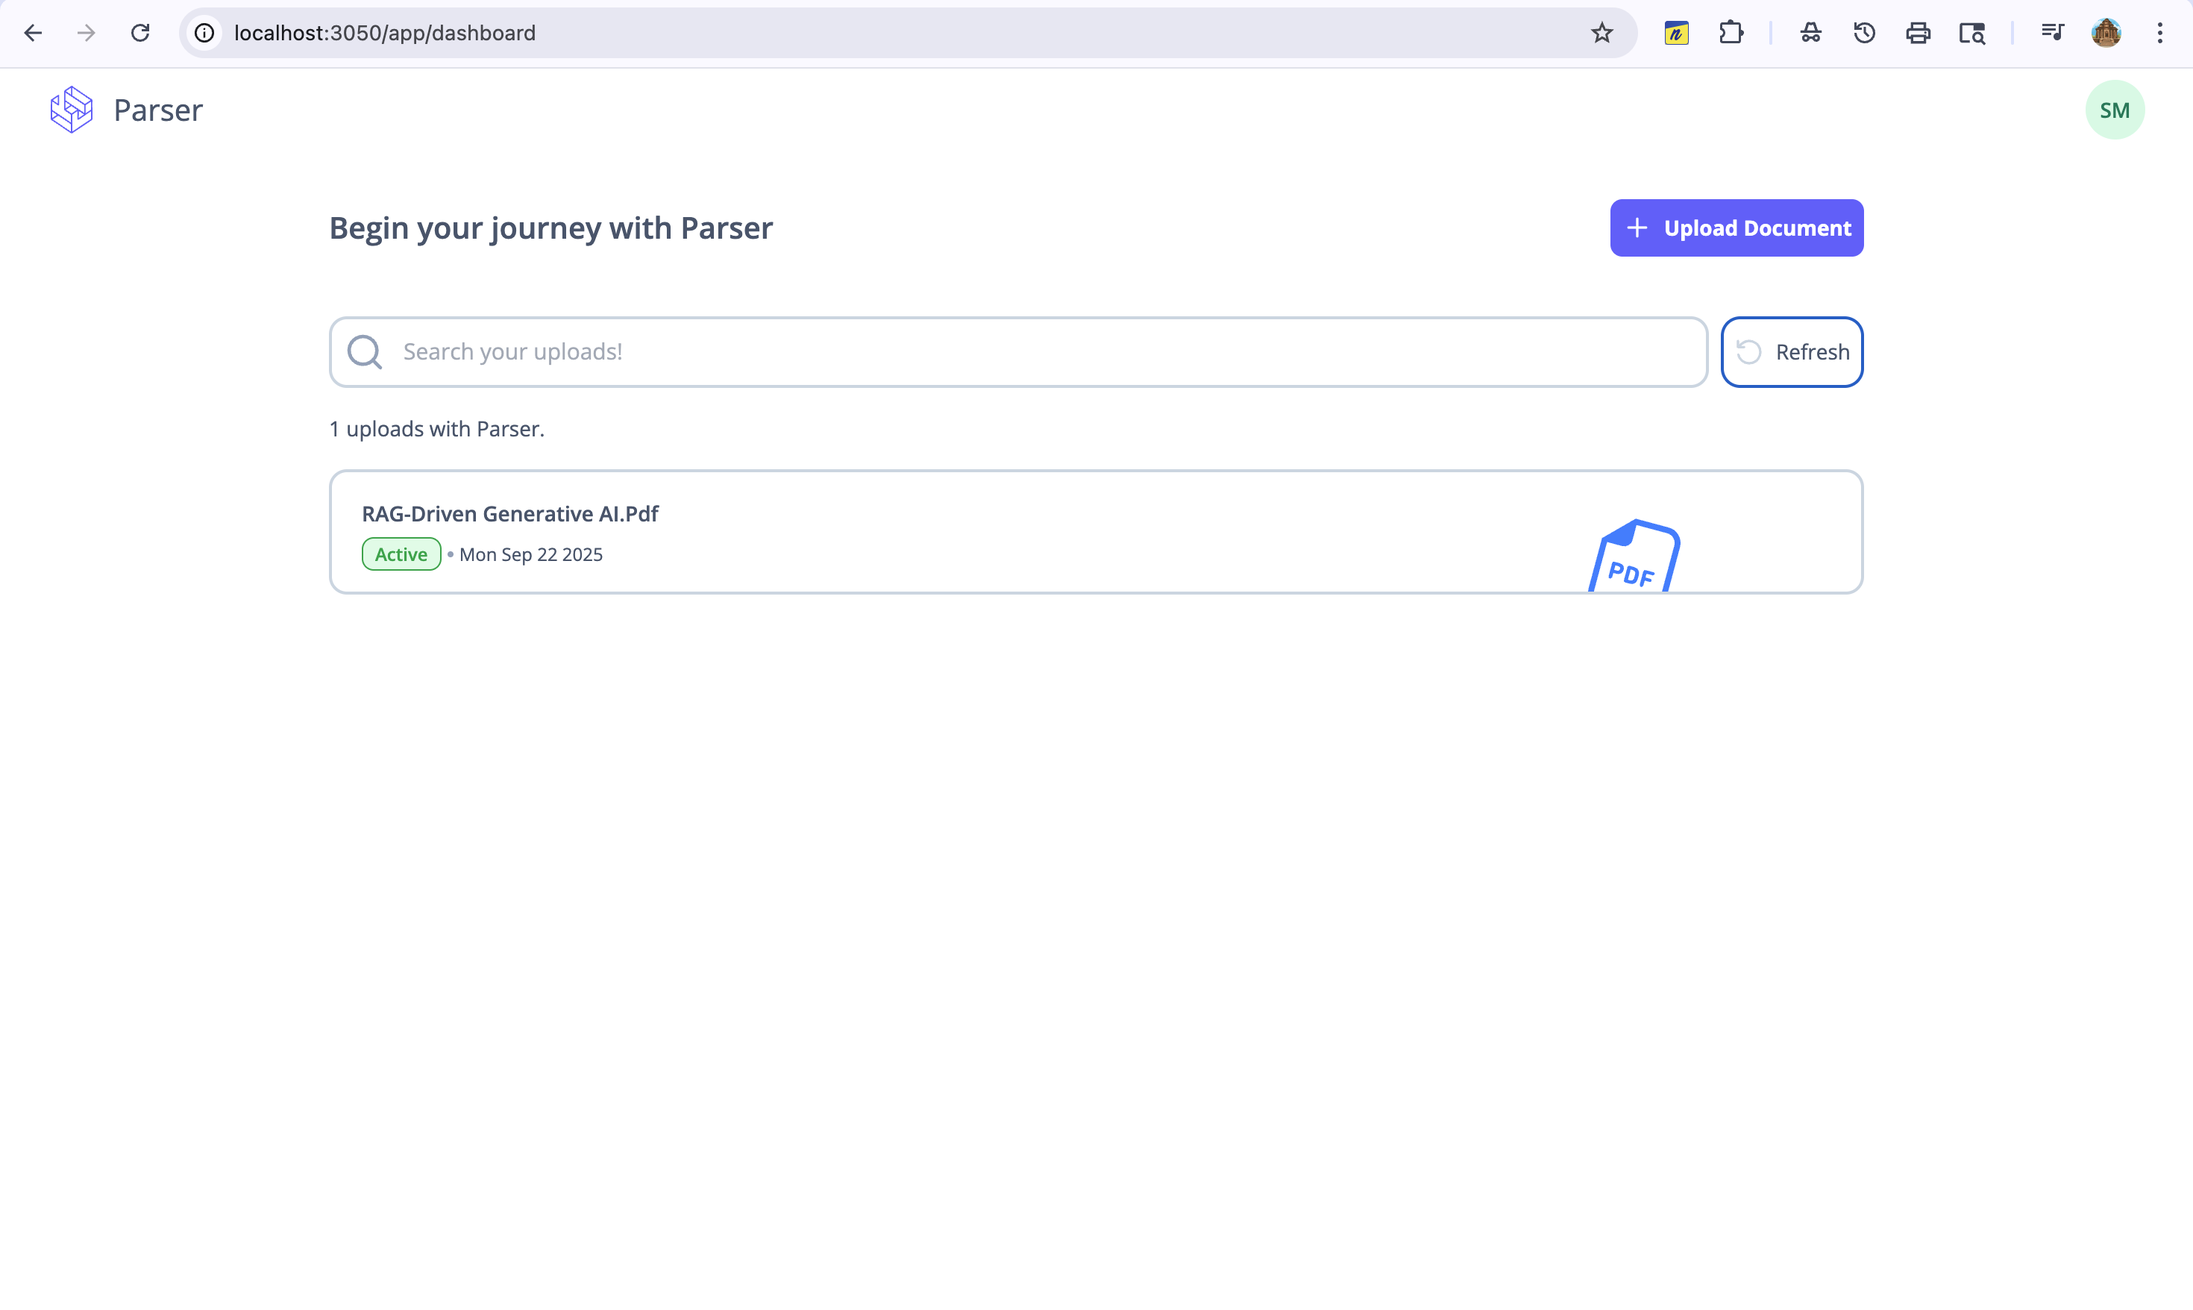
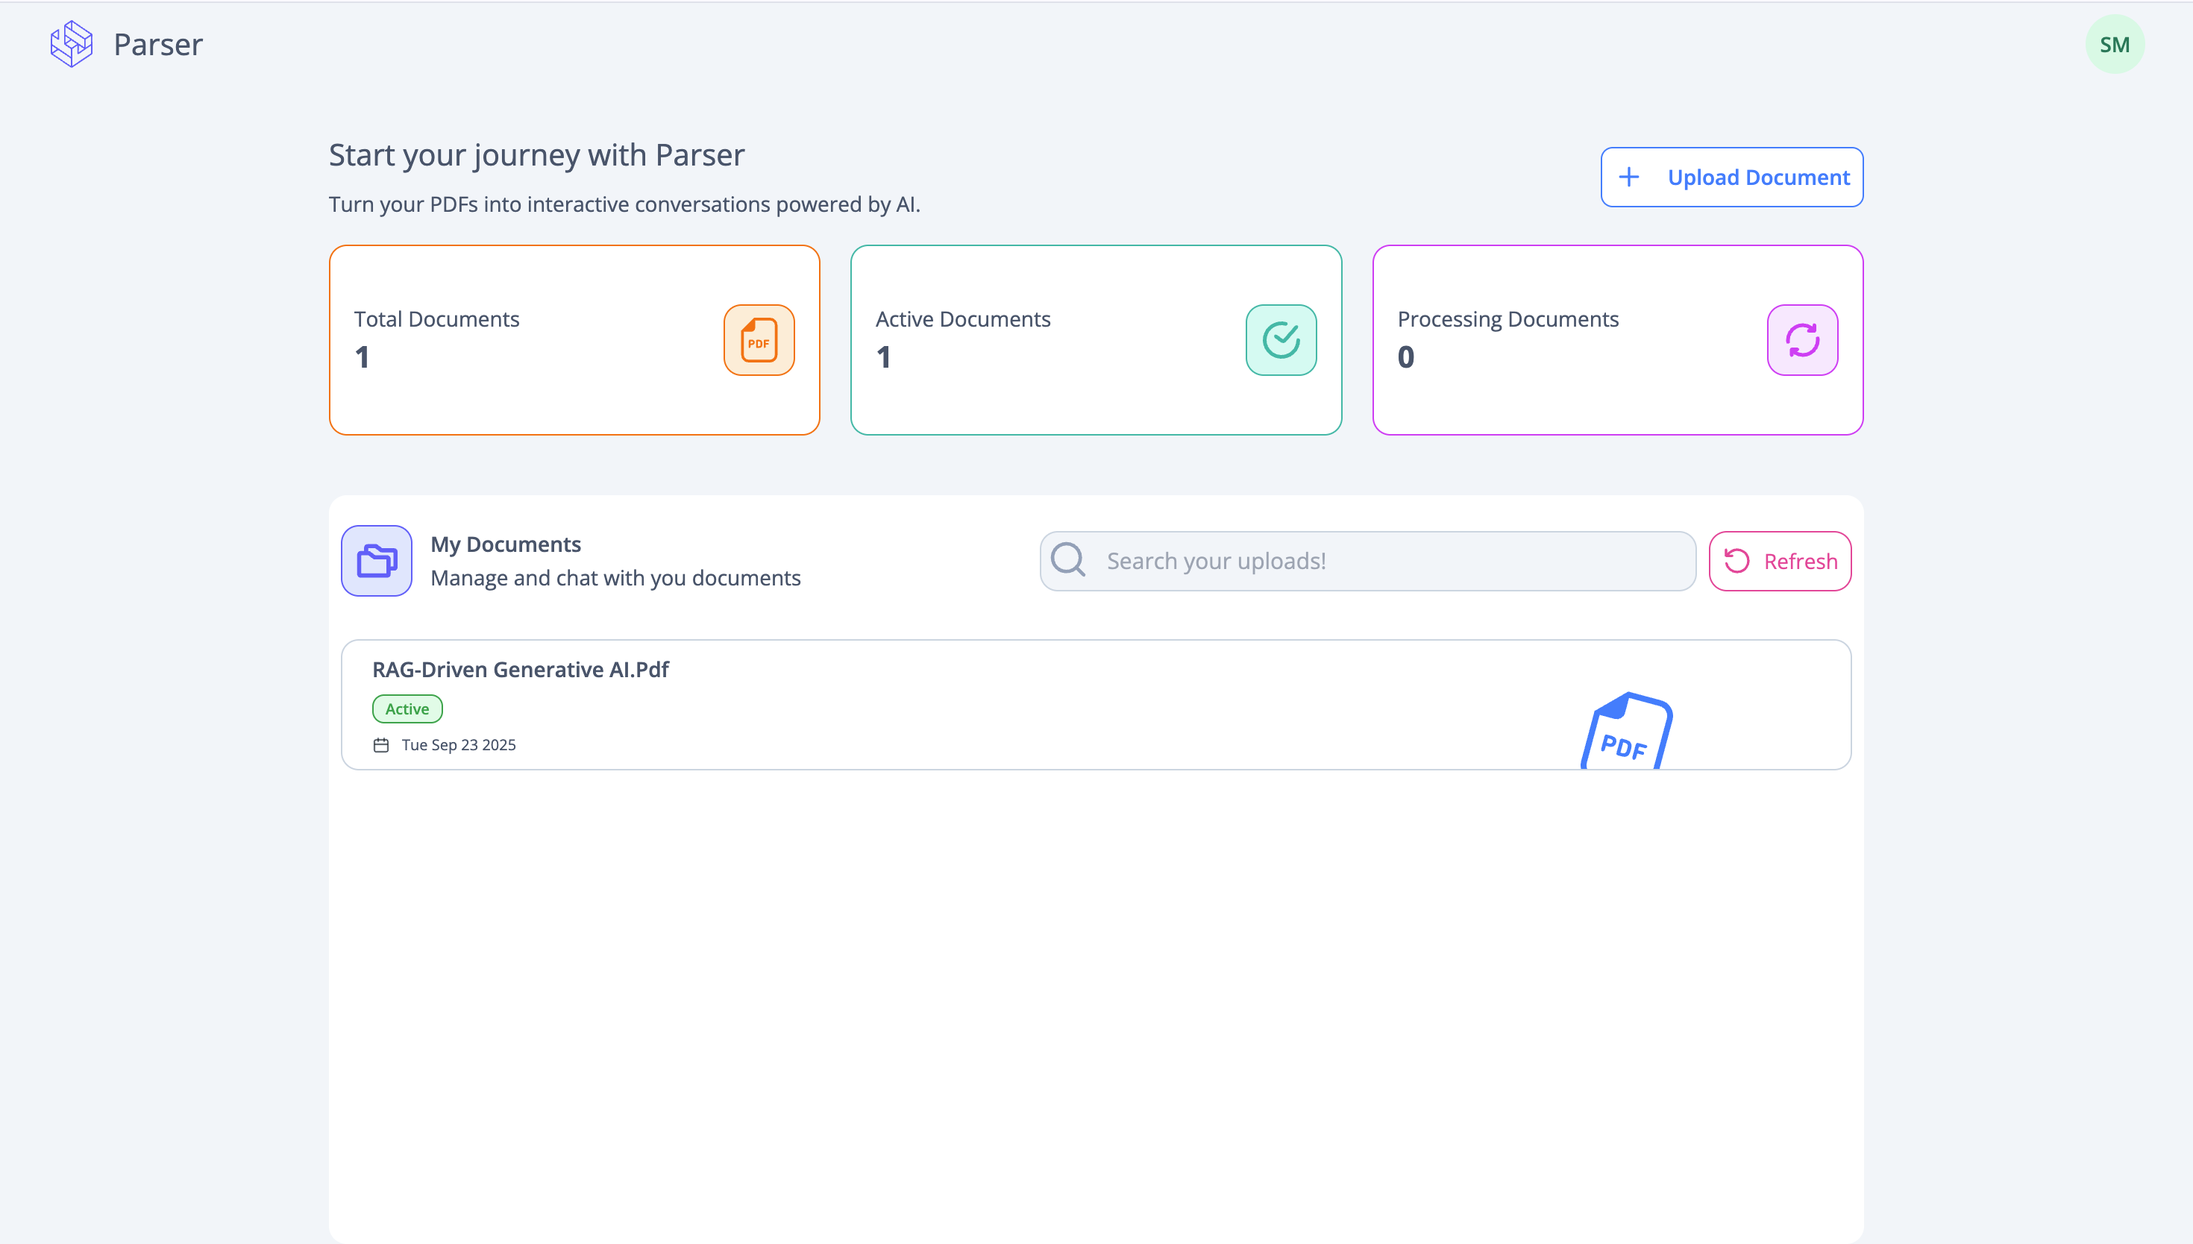
client: updating styles, updated homepage

diff --git a/client/src/pages/app/Banner.tsx b/client/src/pages/app/Banner.tsx
@@ -3,14 +3,14 @@ import { useCustomReducer, useErrorHandler } from "@/hooks";
 import { FileUpload, Alert } from "@/reusables";
 import { ActiveSvg, AddSvg, PdfSvg, ProcessingSvg } from "@/svgs";
 import { useAuth } from "@/context/authContext";
-import { DocumentCard } from './'
+import { DocumentCard } from '.'
 
 /**
  * 
  * @returns A JSX component that is used in the dashboard page to
  * allow users to upload files.
  */
-export const Upload: React.FC = () => {
+export const Banner: React.FC = () => {
     const { state, setAlertMsg, setFieldWithValue } = useCustomReducer({ total: 0, active: 0, processing: 0 });
     const { withErrorHandler } = useErrorHandler()
     const { user } = useAuth();
@@ -44,6 +44,7 @@ export const Upload: React.FC = () => {
         })
         const clone = response.clone()
         const data = await response.json();
+        console.log(data)
         setFieldWithValue('total', parseInt(data.stats.count))
         setFieldWithValue('active', data.stats.active)
         setFieldWithValue('processing', data.stats.processing)
@@ -53,22 +54,23 @@ export const Upload: React.FC = () => {
 
     // get it when the component starts.
     useEffect(() => {
+        console.log(user)
         getUploadDetails()
     }, [])
 
-    return <div className="w-full py-4 rounded-xl sm:px-0 px-2">
+    return <div className="w-full py-8 rounded-xl sm:px-0 px-2">
         <div className="flex justify-between items-center">
             <div className="flex flex-col gap-2">
                 <span className="sm:text-xl ">
                     Start your journey with Parser
                 </span>
-                <span className="font-[13px]">
+                <span className="font-[13px] text-wrap">
                     Turn your PDFs into interactive conversations powered by AI.
                 </span>
             </div>
             <FileUpload accept=".pdf" callback={(files) => uploadFile(files)}>
-                <div className=" bg-indigo-500 flex justify-center items-center gap-4 p-2 text-white rounded-lg cursor-pointer group btn-click">
-                    <AddSvg className="w-5 h-5 stroke-white transform transition-transform group-hover:rotate-90" />
+                <div className=" text-blue-500 border-blue-500 border stroke-blue-500 flex justify-center items-center gap-4 p-2 bg-white rounded-lg cursor-pointer group btn-click">
+                    <AddSvg className="w-5 h-5 transform transition-transform group-hover:rotate-90" />
                     <span className="font-semibold capitalize">upload document</span>
                 </div>
 
@@ -76,10 +78,10 @@ export const Upload: React.FC = () => {
             {/*Overiding style here. */}
             {state.alertMsg['status'] && <Alert className="alert-info" message={state.alertMsg['message']} key={state.alertMsg['id']} />}
         </div>
-        <div className="my-2 mt-4 flex justify-between items-center gap-5">
-            <DocumentCard title="total documents" value={state.total} className="border-red-500"><PdfSvg className="w-12 h-12 border p-2 rounded-lg fill-red-500 bg-red-100 border-red-500" /></DocumentCard>
-            <DocumentCard title="active documents" value={state.active} className="border-green-500"><ActiveSvg className="w-12 h-12 border p-2 rounded-lg stroke-green-500 bg-green-100 border-green-500" /></DocumentCard>
-            <DocumentCard title="processing documents" value={state.processing} className="border-blue-500"><ProcessingSvg className="w-12 h-12 border p-2 rounded-lg fill-blue-500 bg-blue-100 border-blue-500" /></DocumentCard>
+        <div className="my-2 mt-4 flex justify-between items-center gap-5 sm:flex-nowrap flex-wrap">
+            <DocumentCard title="total documents" value={state.total} className="border-orange-500"><PdfSvg className="w-12 h-12 border p-2 rounded-xl fill-orange-500 bg-orange-100 border-orange-500" /></DocumentCard>
+            <DocumentCard title="active documents" value={state.active} className="border-teal-500"><ActiveSvg className="w-12 h-12 border p-2 rounded-xl stroke-teal-500 bg-teal-100 border-teal-500" /></DocumentCard>
+            <DocumentCard title="processing documents" value={state.processing} className="border-fuchsia-500"><ProcessingSvg className="w-12 h-12 border p-2 rounded-xl stroke-fuchsia-500 bg-fuchsia-100 border-fuchsia-500" /></DocumentCard>
         </div>
     </div>
 };

diff --git a/client/src/pages/app/ListFiles.tsx b/client/src/pages/app/ListFiles.tsx
@@ -2,15 +2,16 @@ import React, { useEffect, useState } from "react";
 import { ListRow } from "./";
 import type { uploadRowInterface } from "@/interface";
 import { Alert, Button, Input } from "@/reusables";
-import { SearchSvg, RefreshSvg } from "@/svgs";
+import { SearchSvg, RefreshSvg, MyDocuments } from "@/svgs";
 import { useCustomReducer, useErrorHandler } from "@/hooks";
+import type { listFilesInterface } from "@/interface";
 
 /**
  * 
  * @returns A JSX component that is used to display each upload
  * on the screen
  */
-export const ListFiles: React.FC = () => {
+export const ListFiles: React.FC<listFilesInterface> = ({ callback }) => {
     const [data, setData] = useState<uploadRowInterface[]>([])
     const [search, setSearch] = useState<string>('');
     const { state, setAlertMsg } = useCustomReducer({});
@@ -59,6 +60,7 @@ export const ListFiles: React.FC = () => {
             setData(prev => prev.filter(el => el.id !== id))
         }, 300)
 
+
         return response
 
     }, setAlertMsg)
@@ -70,19 +72,28 @@ export const ListFiles: React.FC = () => {
         let url = reqUrl;
         if (search !== '')
             url += `?search=${encodeURIComponent(search)}`
-        getUploads(url)
+        getUploads(url);
     }, [search])
 
-    return <div className="flex flex-col ">
-        <div className="flex">
-            <div className="flex flex-1 border-2 border-slate-300 rounded-xl p-2 my-2 group">
-                <SearchSvg className="w-7 h-7 fill-white! stroke-slate-400 group-hover:scale-90" />
-                <Input type='text' value={search} callback={(value: string) => setSearch(value)} placeholder="Search your uploads!" className="outline-none flex-1 pl-3 placeholder:text-[15px]" />
+    return <div className="flex flex-col flex-1 px-2 rounded-xl bg-white overflow-hidden">
+        <div className="flex justify-between gap-40 py-4">
+            <div className="flex gap-3 items-center ">
+                <MyDocuments className="w-12 h-12 border p-2 rounded-xl fill-indigo-500 bg-indigo-100 border-indigo-500" />
+                <div className="flex flex-col">
+                    <span className="capitalize font-semibold">My Documents</span>
+                    <span className="first-letter:capitalize">manage and chat with you documents</span>
+                </div>
             </div>
-            <Button callback={() => getUploads()} className="flex border rounded-xl my-2 ml-2 items-center justify-between capitalize p-2 cursor-pointer group btn-click">
-                <RefreshSvg className="w-5 h-5 stroke-slate-300 mr-2 group-hover:-rotate-360 transform transition-transform duration-500" />
-                refresh
-            </Button>
+            <div className="flex justify-between flex-1">
+                <div className="flex flex-1 border border-slate-300 bg-slate-100 fill-slate-100 rounded-xl p-1 my-2 group">
+                    <SearchSvg className="w-7 h-7 stroke-slate-400 group-hover:scale-90" />
+                    <Input type='text' value={search} callback={(value: string) => setSearch(value)} placeholder="Search your uploads!" className="outline-none flex-1 pl-3 placeholder:text-[15px]" />
+                </div>
+                <Button callback={() => { getUploads(); callback() }} className="flex border border-pink-500 rounded-xl my-2 ml-2 items-center justify-between capitalize p-2 cursor-pointer group btn-click stroke-pink-500 text-pink-500">
+                    <RefreshSvg className="w-5 h-5 mr-2 group-hover:-rotate-360 transform transition-transform duration-500" />
+                    refresh
+                </Button>
+            </div>
         </div>
         {
             data.map((el, i) =>

diff --git a/client/src/pages/app/ListRow.tsx b/client/src/pages/app/ListRow.tsx
@@ -1,7 +1,7 @@
 import React from "react";
 import type { uploadRowInterface } from "@/interface";
 import { Button } from "@/reusables";
-import { PdfSvg, DeleteSvg } from "@/svgs";
+import { CalenderSvg, DeleteSvg, PdfSvg } from "@/svgs";
 import { useNavigate } from "react-router-dom";
 
 /**
@@ -24,18 +24,20 @@ export const ListRow: React.FC<uploadRowInterface> = ({ id, original_name, updat
     }
 
     return <div
-        className={`pdf-list  opacity-0 flex justify-between items-center border-2 border-slate-300 bg-white rounded-xl my-2 p-2 px-5 group overflow-hidden cursor-pointer ${deleting ? 'delete-pdf' : ''}`}
+        className={`pdf-list  opacity-0 flex justify-between items-center border border-slate-300 bg-white rounded-xl my-2 p-2 px-5 group overflow-hidden cursor-pointer  hover:shadow ${deleting ? 'delete-pdf' : ''}`}
         style={{ animationDelay: `${rowNum! * 0.1}s` }}
         onClick={goTo}
     >
-        <div className="flex flex-col flex-5">
-            <span className="w-64 capitalize font-semibold ellipses">{original_name}</span>
-            <span className="flex items-center gap-1 text-xs mt-2">
+        <div className="flex flex-col flex-5 gap-2">
+            <span className="capitalize font-semibold ellipses">{original_name}</span>
+            <span className="flex items-center gap-1 text-[10px]">
                 <span>
                     <span className={`p-0.5 px-2 capitalize border font-semibold rounded-lg ${status === 'active' ? 'text-green-600 border-green-600 bg-green-100' : 'text-slate-700 border-slate-600 bg-slate-100'}`}>{status}</span>
                 </span>
-                <span className="w-1 h-1 rounded-full bg-slate-400"></span>
-                <span>{new Date(updated_at).toDateString()}</span>
+            </span>
+            <span className="flex gap-2 items-center">
+                <CalenderSvg className="w-3 h-3 stroke-slate-300" />
+                <span className="text-[10px]">{new Date(updated_at).toDateString()}</span>
             </span>
         </div>
         <div className="flex justify-between items-center flex-1">

diff --git a/client/src/svgs/ProcessingSvg.tsx b/client/src/svgs/ProcessingSvg.tsx
@@ -2,13 +2,13 @@ import type { className } from "@/interface";
 import React from "react";
 
 export const ProcessingSvg: React.FC<className> = ({ className }) => {
-    return <svg className={`${className}`} viewBox="-7 0 32 32" version="1.1" xmlns="http://www.w3.org/2000/svg">
+    return <svg className={`${className}`} viewBox="0 0 24 24" fill="none" xmlns="http://www.w3.org/2000/svg">
         <g strokeWidth="0">
         </g>
         <g strokeLinecap="round" strokeLinejoin="round">
         </g>
         <g>
-            <path d="M2.080 14.040l4-1.040c0.44-0.12 0.72-0.56 0.6-1.040-0.12-0.44-0.56-0.72-1.040-0.6l-2.080 0.56c0.68-0.88 1.56-1.6 2.64-2.080 1.64-0.72 3.44-0.76 5.12-0.12 1.64 0.64 2.96 1.92 3.68 3.52 0.2 0.44 0.68 0.6 1.12 0.44 0.44-0.2 0.6-0.68 0.44-1.12-0.88-2.040-2.52-3.6-4.6-4.44-2.080-0.8-4.36-0.76-6.4 0.12-1.36 0.6-2.48 1.52-3.36 2.68l-0.52-1.96c-0.12-0.44-0.56-0.72-1.040-0.6-0.44 0.12-0.72 0.56-0.6 1.040l1.040 4c0.12 0.56 0.4 0.8 1 0.64zM17.72 22.52l-1.040-3.96c0 0-0.16-0.8-0.96-0.6v0l-4 1.040c-0.44 0.12-0.72 0.56-0.6 1.040 0.12 0.44 0.56 0.72 1.040 0.6l2.080-0.56c-1.76 2.32-4.88 3.28-7.72 2.16-1.64-0.64-2.96-1.92-3.68-3.52-0.2-0.44-0.68-0.6-1.12-0.44-0.44 0.2-0.6 0.68-0.44 1.12 0.88 2.040 2.52 3.6 4.6 4.44 1 0.4 2 0.56 3.040 0.56 2.64 0 5.12-1.24 6.72-3.4l0.52 1.96c0.080 0.36 0.44 0.64 0.8 0.64 0.080 0 0.16 0 0.2-0.040 0.4-0.16 0.68-0.6 0.56-1.040z">
+            <path d="M4.06189 13C4.02104 12.6724 4 12.3387 4 12C4 7.58172 7.58172 4 12 4C14.5006 4 16.7332 5.14727 18.2002 6.94416M19.9381 11C19.979 11.3276 20 11.6613 20 12C20 16.4183 16.4183 20 12 20C9.61061 20 7.46589 18.9525 6 17.2916M9 17H6V17.2916M18.2002 4V6.94416M18.2002 6.94416V6.99993L15.2002 7M6 20V17.2916" strokeWidth="2" strokeLinecap="round" strokeLinejoin="round">
             </path>
         </g>
     </svg>

diff --git a/client/src/svgs/MyDocuments.tsx b/client/src/svgs/MyDocuments.tsx
@@ -1,0 +1,15 @@
+import type { className } from "@/interface";
+import React from "react";
+
+export const MyDocuments: React.FC<className> = ({ className }) => {
+    return <svg className={`${className}`} viewBox="0 0 256 256" xmlns="http://www.w3.org/2000/svg">
+        <g strokeWidth="0">
+        </g>
+        <g strokeLinecap="round" strokeLinejoin="round">
+        </g>
+        <g>
+            <path d="M228,56H160L133.333,36a20.12292,20.12292,0,0,0-12-4H76A20.0226,20.0226,0,0,0,56,52V72H36A20.0226,20.0226,0,0,0,16,92V204a20.0226,20.0226,0,0,0,20,20H188.88867A19.13289,19.13289,0,0,0,208,204.88867V184h20.88867A19.13289,19.13289,0,0,0,248,164.88867V76A20.0226,20.0226,0,0,0,228,56ZM184,200H40V96H80l26.667,20a20.12292,20.12292,0,0,0,12,4H184Zm40-40H208V116a20.0226,20.0226,0,0,0-20-20H120L93.333,76a20.12292,20.12292,0,0,0-12-4H80V56h40l26.667,20a20.12292,20.12292,0,0,0,12,4H224Z">
+            </path>
+        </g>
+    </svg>
+};

diff --git a/client/src/pages/app/DocumentCard.tsx b/client/src/pages/app/DocumentCard.tsx
@@ -11,10 +11,10 @@ import type { documentCardInterface } from '@/interface';
  * @returns 
  */
 export const DocumentCard: React.FC<PropsWithChildren & documentCardInterface> = ({ className, children, title, value }) => {
-    return <div className={`border rounded-xl  w-full h-32 flex justify-between items-center p-4 bg-white ${className}`}>
+    return <div className={`border rounded-xl  w-full h-32 flex justify-between items-center p-4 bg-white hover:scale-99 transform transition-transform duration-200 ${className}`}>
         <span className="flex flex-col">
-            <span className="text-lg capitalize">{title}</span>
-            <span>{value}</span>
+            <span className="capitalize">{title}</span>
+            <span className='font-bold text-xl'>{value}</span>
         </span>
         <span>
             {children}

diff --git a/client/src/pages/app/Body.tsx b/client/src/pages/app/Body.tsx
@@ -1,4 +1,5 @@
-import { ListFiles, Upload } from "./";
+import { useState } from "react";
+import { ListFiles, Banner } from "./";
 
 
 /**
@@ -6,10 +7,12 @@ import { ListFiles, Upload } from "./";
  * @returns A JSX Component that acts as a body of the website for now.
  */
 export const Body = () => {
+    const [refreshCount, setRefreshCount] = useState<number>(0)
+    console.log(refreshCount)
     return <div className="w-full h-full flex justify-center row-start-2 row-span-full overflow-y-scroll">
-        <div className="sm:w-[70%] w-full ">
-            <Upload />
-            <ListFiles />
+        <div key={refreshCount} className="sm:w-[70%] w-full flex flex-col">
+            <Banner />
+            <ListFiles callback={() => setRefreshCount(prev => prev + 1)} />
         </div>
     </div>;
 };

diff --git a/client/src/svgs/CalenderSvg.tsx b/client/src/svgs/CalenderSvg.tsx
@@ -1,0 +1,15 @@
+import React from "react";
+import type { className } from "@/interface";
+
+export const CalenderSvg: React.FC<className> = ({ className }) => {
+    return <svg className={`${className}`} viewBox="0 0 24 24" xmlns="http://www.w3.org/2000/svg">
+        <g strokeWidth="0">
+        </g>
+        <g strokeLinecap="round" strokeLinejoin="round">
+        </g>
+        <g>
+            <path d="M19,4H17V3a1,1,0,0,0-2,0V4H9V3A1,1,0,0,0,7,3V4H5A3,3,0,0,0,2,7V19a3,3,0,0,0,3,3H19a3,3,0,0,0,3-3V7A3,3,0,0,0,19,4Zm1,15a1,1,0,0,1-1,1H5a1,1,0,0,1-1-1V12H20Zm0-9H4V7A1,1,0,0,1,5,6H7V7A1,1,0,0,0,9,7V6h6V7a1,1,0,0,0,2,0V6h2a1,1,0,0,1,1,1Z">
+            </path>
+        </g>
+    </svg>
+};

diff --git a/api/src/app.ts b/api/src/app.ts
@@ -23,14 +23,14 @@ app.use(cors());
 app.use(morgan('dev'));
 
 // rate-limiter
-app.use(
-  '/api',
-  rateLimit({
-    max: 100,
-    windowMs: 60 * 60 * 1000, // 1hr
-    message: 'Too many requests from the used ip, try again after some time.',
-  })
-);
+// app.use(
+//   '/api',
+//   rateLimit({
+//     max: 100,
+//     windowMs: 60 * 60 * 1000, // 1hr
+//     message: 'Too many requests from the used ip, try again after some time.',
+//   })
+// );
 
 // auth flow
 app.use('/api/auth', authRouter);

diff --git a/api/src/controllers/appController.ts b/api/src/controllers/appController.ts
@@ -65,8 +65,8 @@ export const getMe = catchAsync(async (req: Request, res: Response) => {
  */
 export const getUploadStatsById = catchAsync(
   async (req: Request, res: Response) => {
-    const { id } = req.params;
-    const stats = await getStatsById(id);
+    const { user_id } = req.params;
+    const stats = await getStatsById(user_id);
     res.status(200).json({
       status: 'success',
       stats,

diff --git a/client/src/svgs/index.ts b/client/src/svgs/index.ts
@@ -1,8 +1,10 @@
 export * from './ActiveSvg';
 export * from './AddSvg';
+export * from './CalenderSvg';
 export * from './DeleteSvg';
 export * from './LogoSvg';
 export * from './LogoutSvg';
+export * from './MyDocuments';
 export * from './NextSvg';
 export * from './PageNumberSvg';
 export * from './PdfSvg';

diff --git a/client/src/pages/app/index.ts b/client/src/pages/app/index.ts
@@ -9,4 +9,4 @@ export * from './ListRow';
 export * from './Message';
 export * from './PDFWindow';
 export * from './ProtectedRoute';
-export * from './Upload';
+export * from './Banner';
